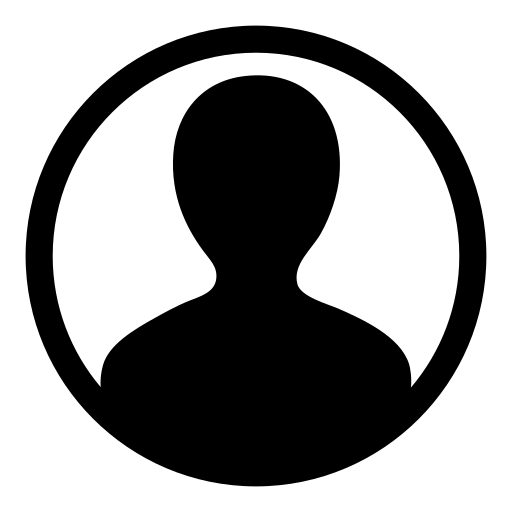
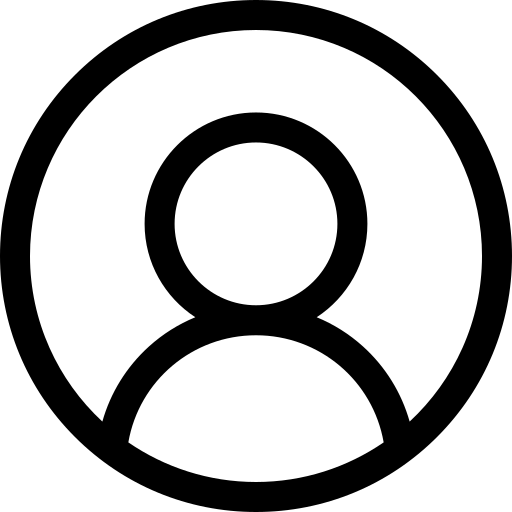
.
detalhes

diff --git a/index.html b/index.html
@@ -44,7 +44,7 @@
                 <div class="centro">
                     <h1>CUIDADO ESPECIALIZADO</h1>
                     <h2>PARA O SEU VEÍCULO</h2>
-                    <p>SEGURANÇA E QUALIDADE PAULO CAR</p>
+                    <p>SEGURANÇA E QUALIDADE <span>PAULO CAR</span></p>
                 </div>
             </section>
         </div>
@@ -72,7 +72,7 @@
 
     <div class="rodape__principal">
         <div class="rodape__conteudo">
-            <img src="./imagens/logo sem fundo.png" alt="Logo" class="logo__footer" />
+            <img src="./imagens/Logo Paulo Car.png" alt="Logo" class="logo__footer" />
 
             <p>Entre em contato e conte conosco para cuidar do seu automóvel<br/>com atenção máxima.</p>
 

diff --git a/perfil_usuario.html b/perfil_usuario.html
@@ -3,7 +3,7 @@
 <head>
     <meta charset="UTF-8">
     <meta name="viewport" content="width=device-width, initial-scale=1.0">
-    <link rel="stylesheet" href="./style/cabecalho_e_rodape.css">k
+    <link rel="stylesheet" href="./style/cabecalho_e_rodape.css">
     <link rel="stylesheet" href="./style/style_perfil_usuario.css">
     <title>Perfil Do Usuário</title>
 </head>

diff --git a/style/style_index.css b/style/style_index.css
@@ -89,6 +89,10 @@ section{
     text-align: center;
 }
 
+p span{
+    color: #FF9924;
+}
+
 /*2 seção: parte do sobre*/
 .quem__somos{
     display: grid; /*ativar o grid*/
